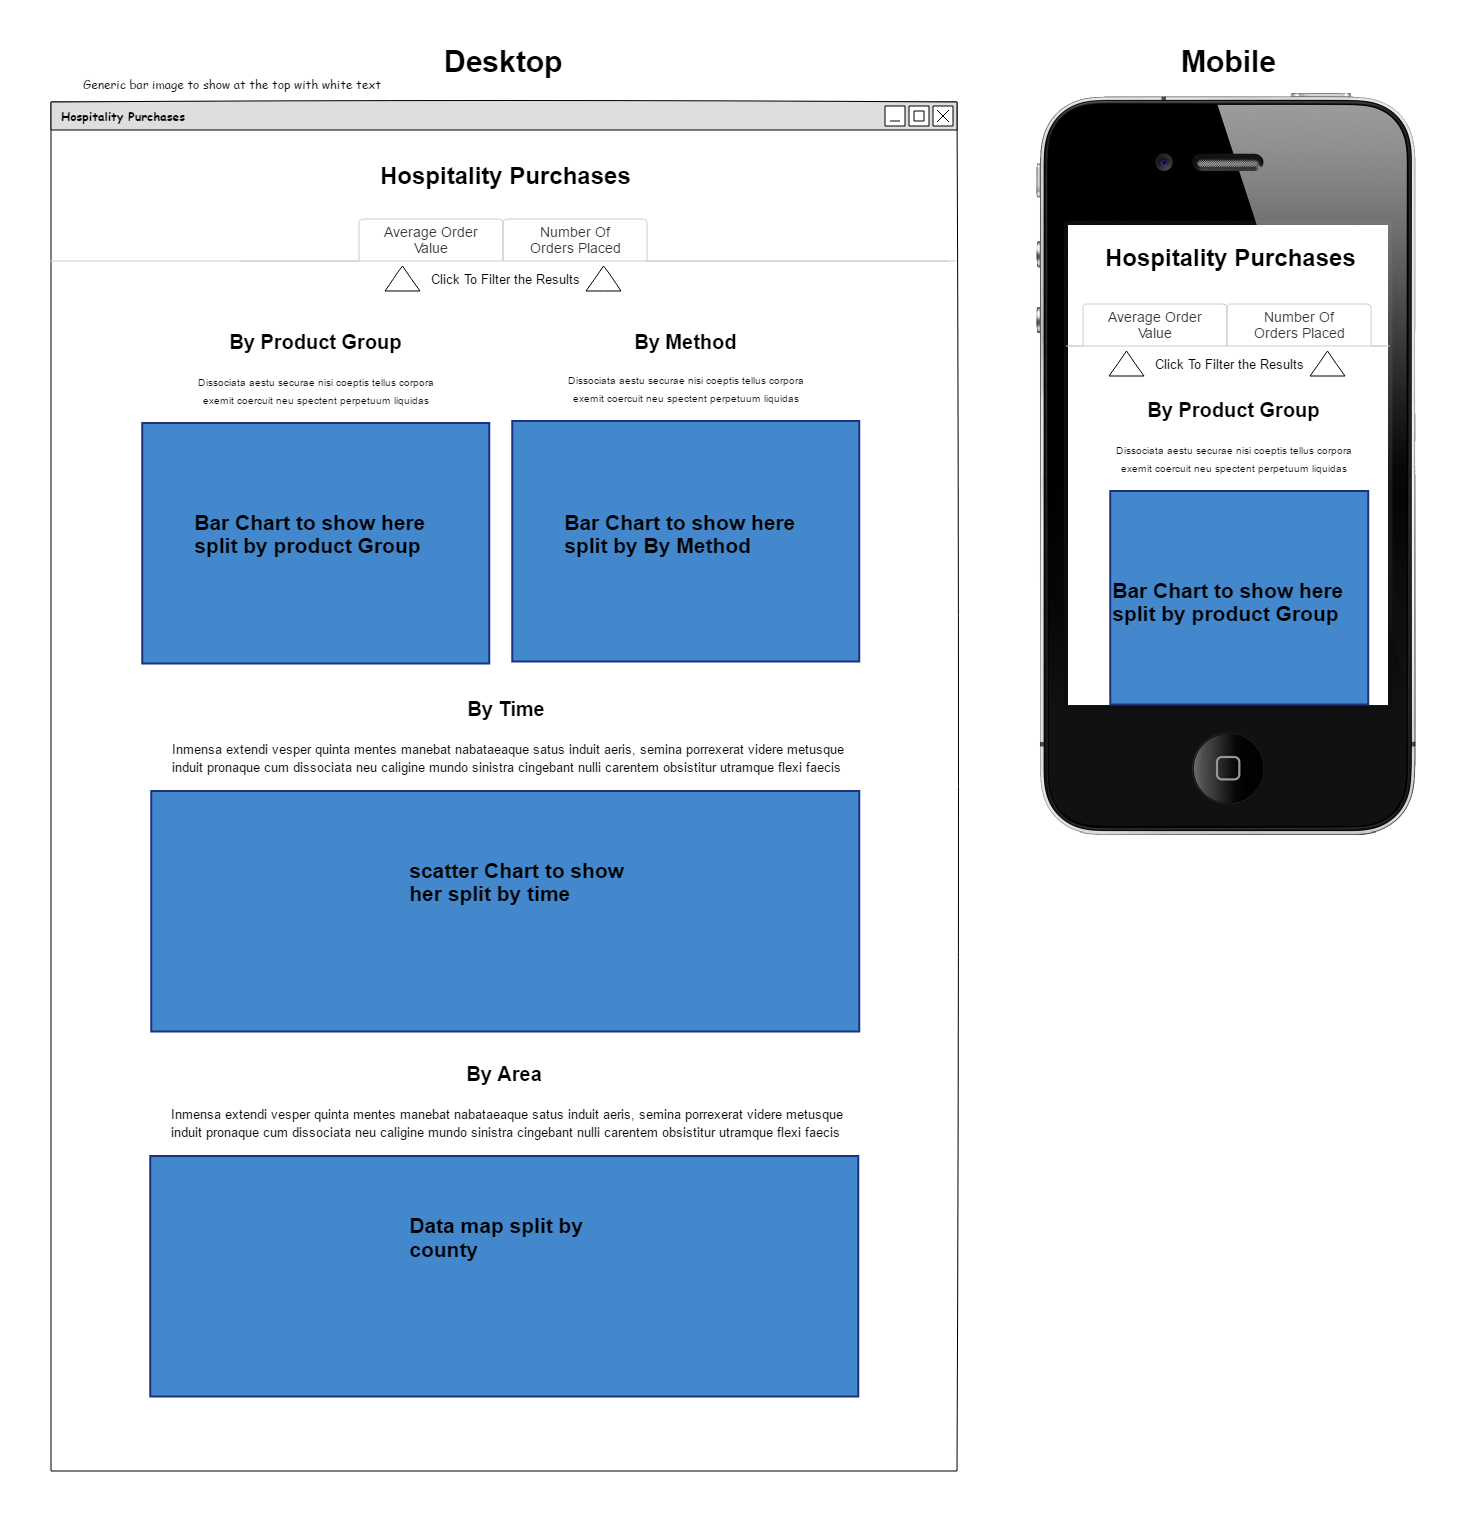
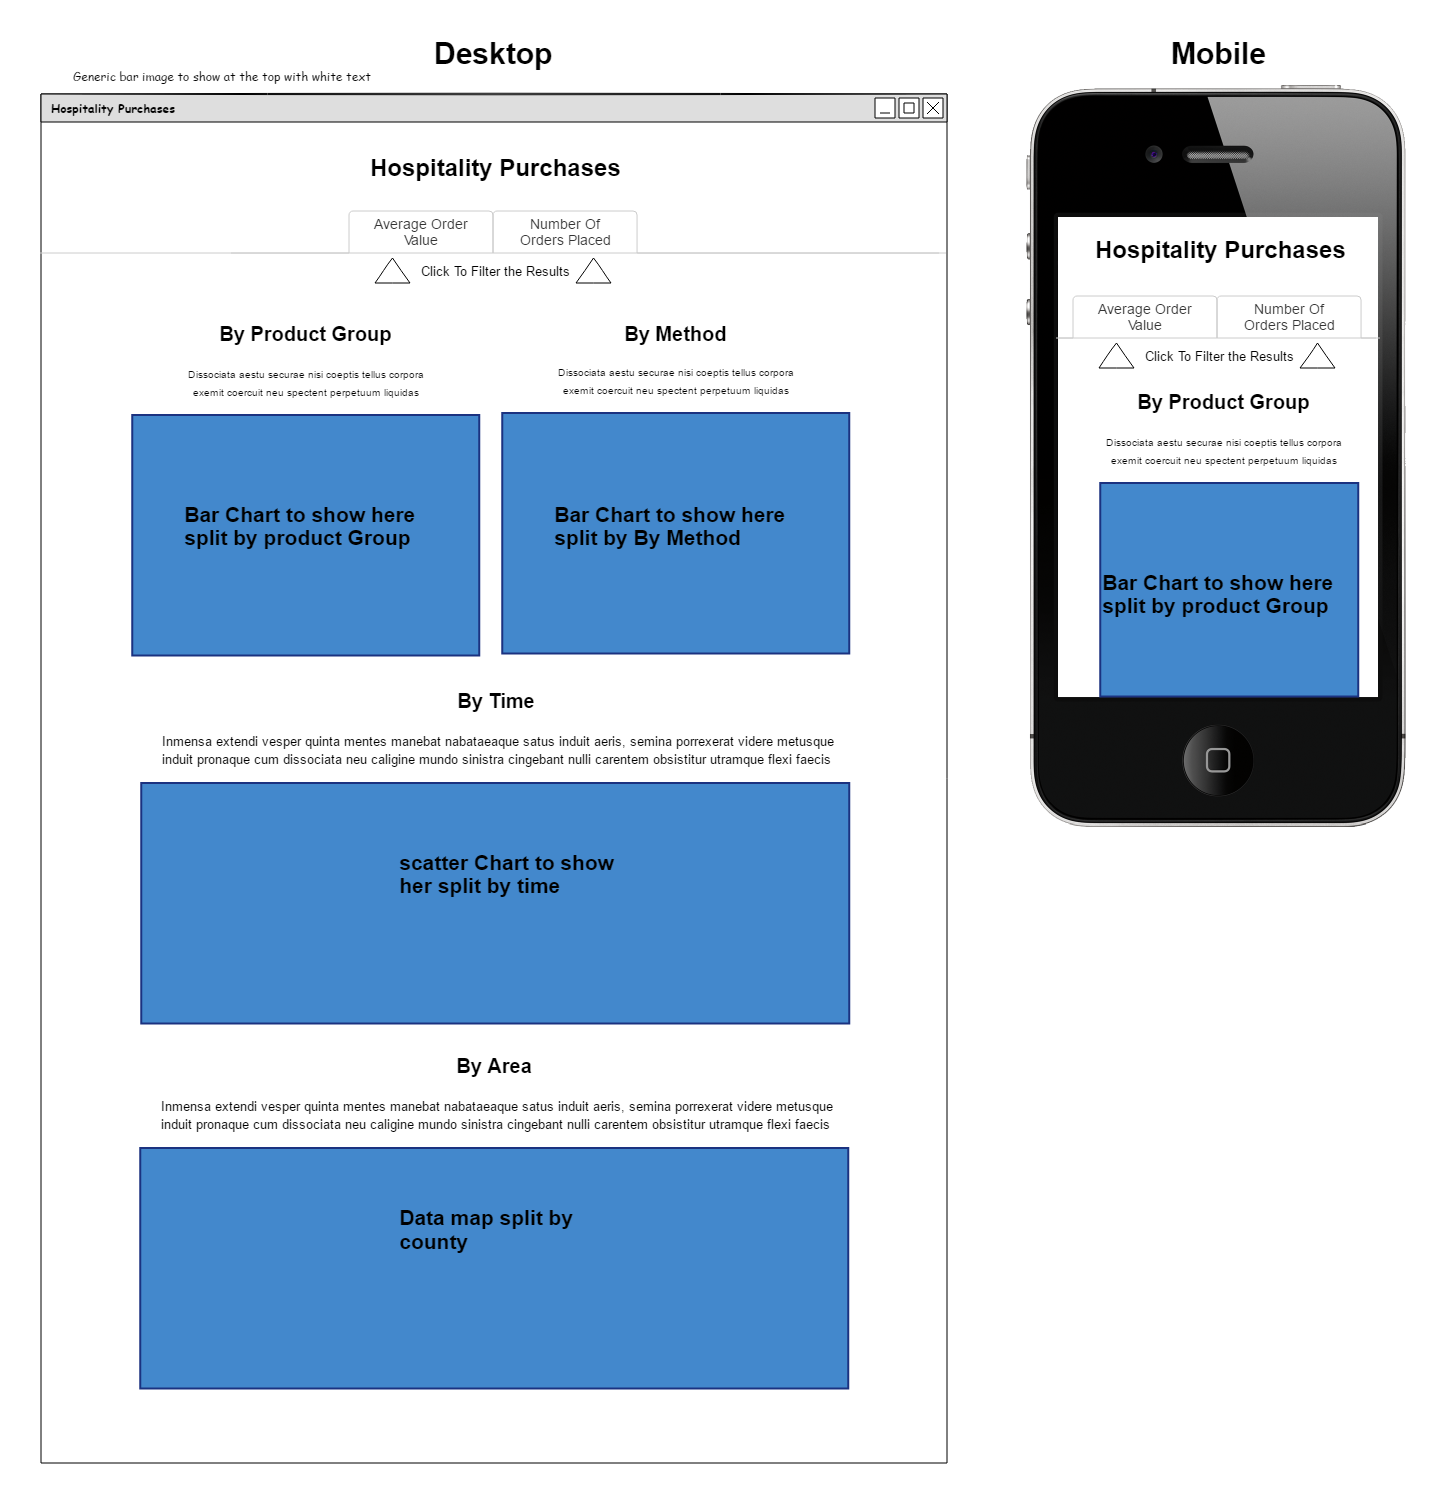
Created the header and top navigation with  associated styles

diff --git a/index.html b/index.html
@@ -1,0 +1,47 @@
+<!DOCTYPE html>
+<html lang="en">
+<head>
+    <meta charset="UTF-8">
+    <meta name="viewport" content="width=device-width, initial-scale=1.0">
+    <meta http-equiv="X-UA-Compatible" content="ie=edge">
+    <title>Hospitality Dashboard</title>
+    <link rel="stylesheet" href="https://stackpath.bootstrapcdn.com/bootstrap/4.3.1/css/bootstrap.min.css">
+    <link rel="stylesheet" href="assets/css/styles.css">
+</head>
+<body>
+<header>
+    <div class="row">
+        <div class="col-12">
+            <h1>Hospitality Purchases</h1>
+        </div>
+        <div class="col-12">
+            <ul class="nav nav-tabs justify-content-center">
+                <li class="nav-item">
+                    <a class="nav-link" href="#">Average Order Value</a>
+                </li>
+                <li class="nav-item">
+                <a class="nav-link" href="#">Number Of Orders Placed</a>
+                </li>
+            </ul>
+            <p id="filter-text">
+                <svg width="66" height="57">
+                    <g>
+                        <path stroke="#000" id="svg_3" d="m0.8835,56.56194l31.99604,-55.99306l31.99604,55.99306l-63.99207,0z" fill-opacity="null" stroke-opacity="null" stroke-width="1.5" fill="#fff"/>
+                    </g>
+                </svg>
+                Click To Filter The Results 
+                <svg width="66" height="57">
+                    <g>
+                        <path stroke="#000" id="svg_3" d="m0.8835,56.56194l31.99604,-55.99306l31.99604,55.99306l-63.99207,0z" fill-opacity="null" stroke-opacity="null" stroke-width="1.5" fill="#fff"/>
+                    </g>
+                </svg>
+            </p>
+        </div>
+    </div>
+</header>
+
+<script src="https://code.jquery.com/jquery-3.3.1.slim.min.js"></script>
+<script src="https://cdnjs.cloudflare.com/ajax/libs/popper.js/1.14.7/umd/popper.min.js"></script>
+<script src="https://stackpath.bootstrapcdn.com/bootstrap/4.3.1/js/bootstrap.min.js"></script>
+</body>
+</html>

diff --git a/assets/css/styles.css b/assets/css/styles.css
@@ -1,0 +1,43 @@
+/* Font styles */
+@import url('https://fonts.googleapis.com/css?family=Josefin+Sans&display=swap');
+
+/* General styles */
+body {
+    font-family: 'Josefin Sans', sans-serif;
+}
+
+h1 {
+    text-align: center;
+    color: #ffffff;
+}
+
+/* Header styles */
+header {
+    padding-top: 25px;
+    height: 175px;
+    background-color: aqua;
+    background: url('/assets/images/header-bg.jpg');
+    background-position: center;
+    background-size: cover;
+}
+
+.nav-tabs {
+    border-bottom: 1px solid #ffffff;
+    padding-top: 52px;
+}
+
+.nav-tabs .nav-link {
+    border-color: #ffffff;
+    color: #ffffff;
+}
+
+.nav-tabs .nav-link:hover {
+    border-color: #000000;
+    background-color: #000000;
+    color: #ffffff;
+}
+
+#filter-text {
+    padding-top: 15px;
+    text-align: center;
+}

diff --git a/README.md b/README.md
@@ -17,3 +17,6 @@
 
 
 ## Credits
+
+#### Media
+Header Image - Lighted Hallway By Tim Savage [image](https://www.pexels.com/photo/architecture-carpet-chandeliers-design-573552/)
